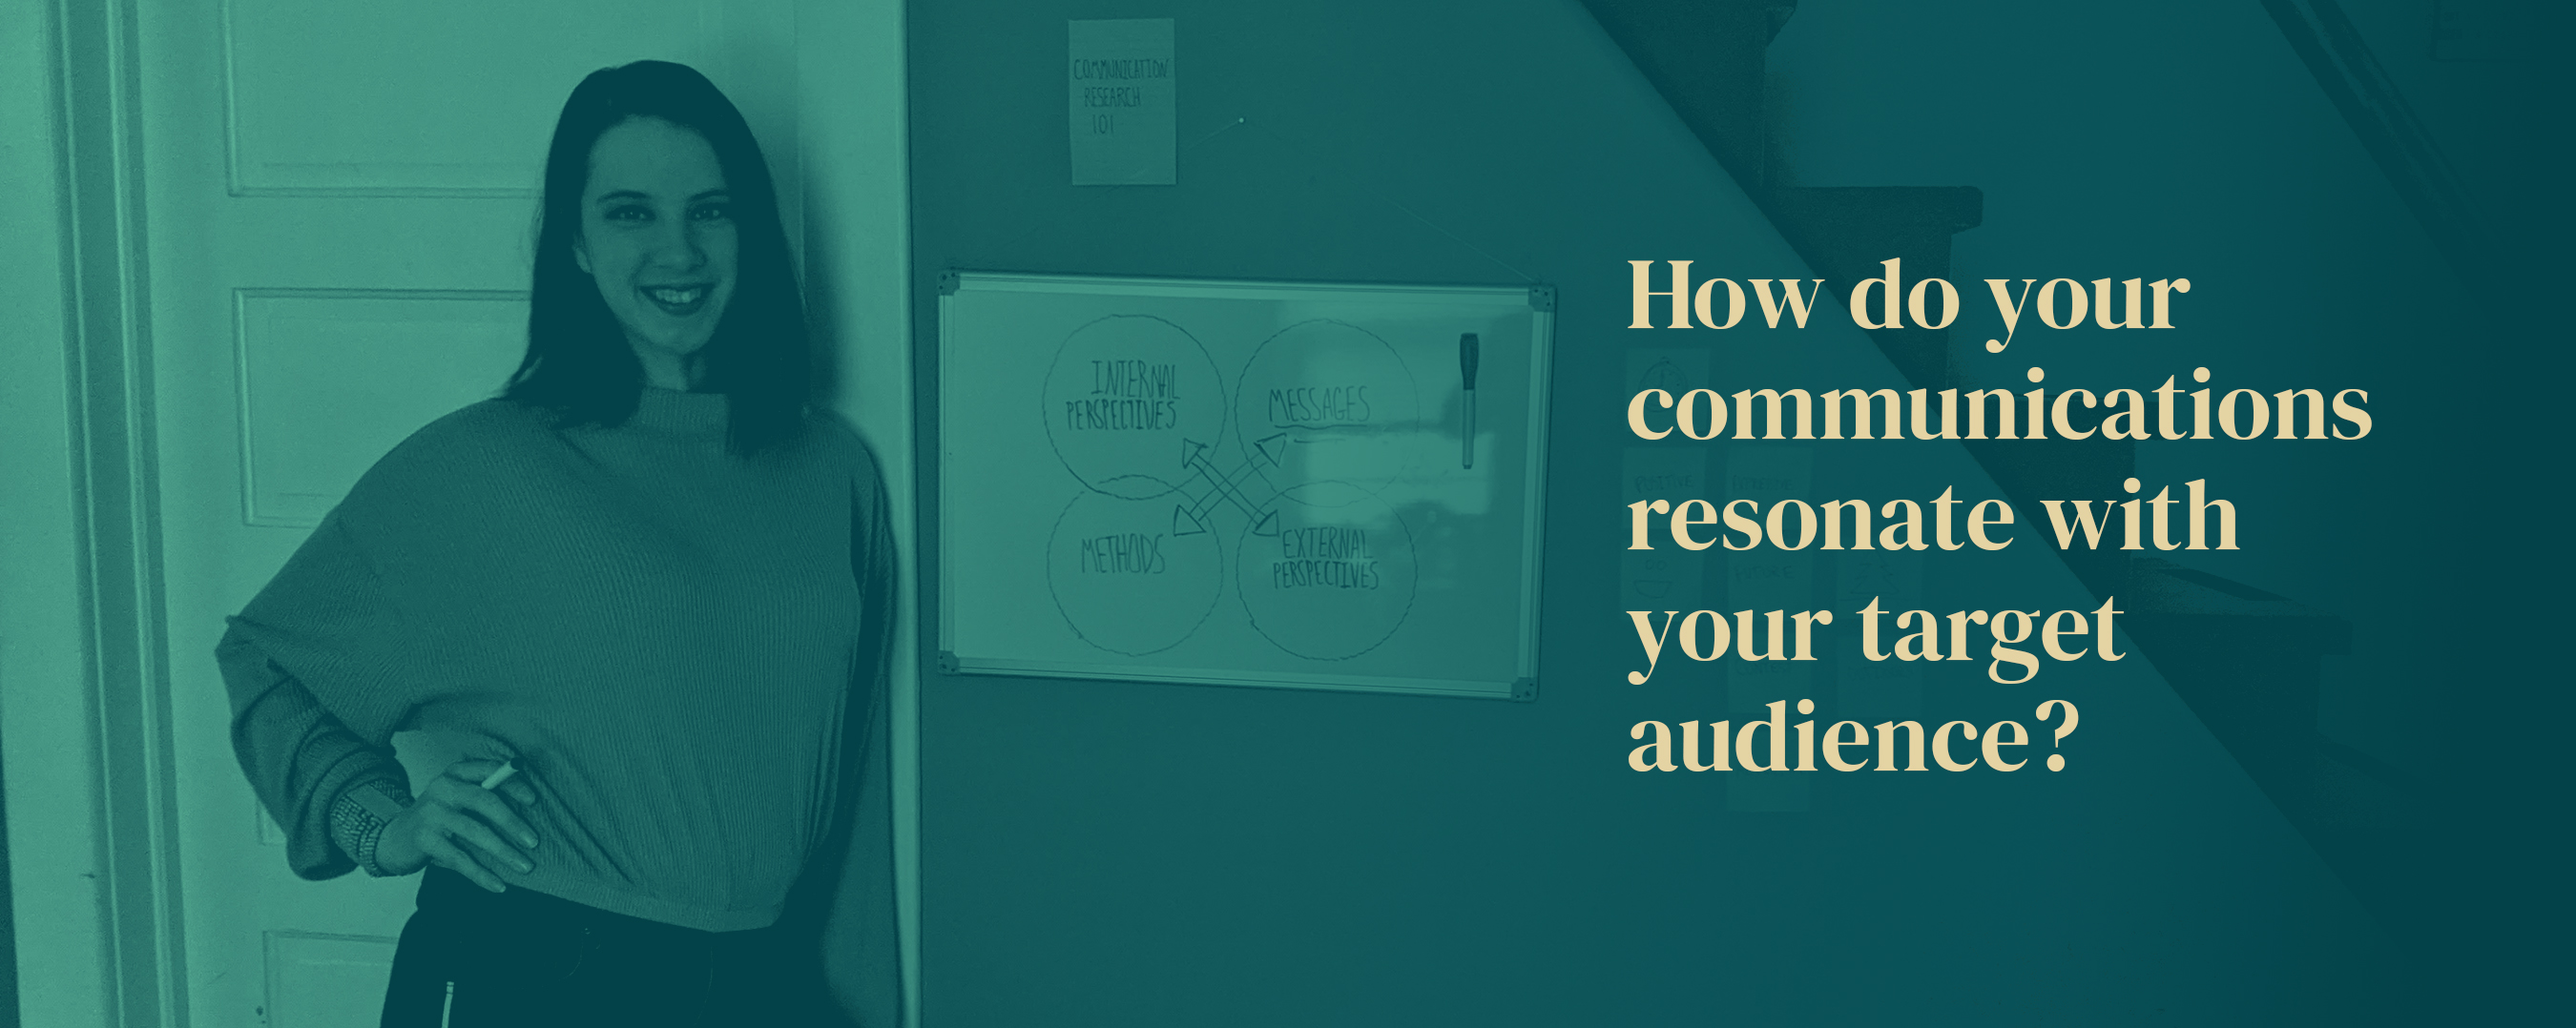
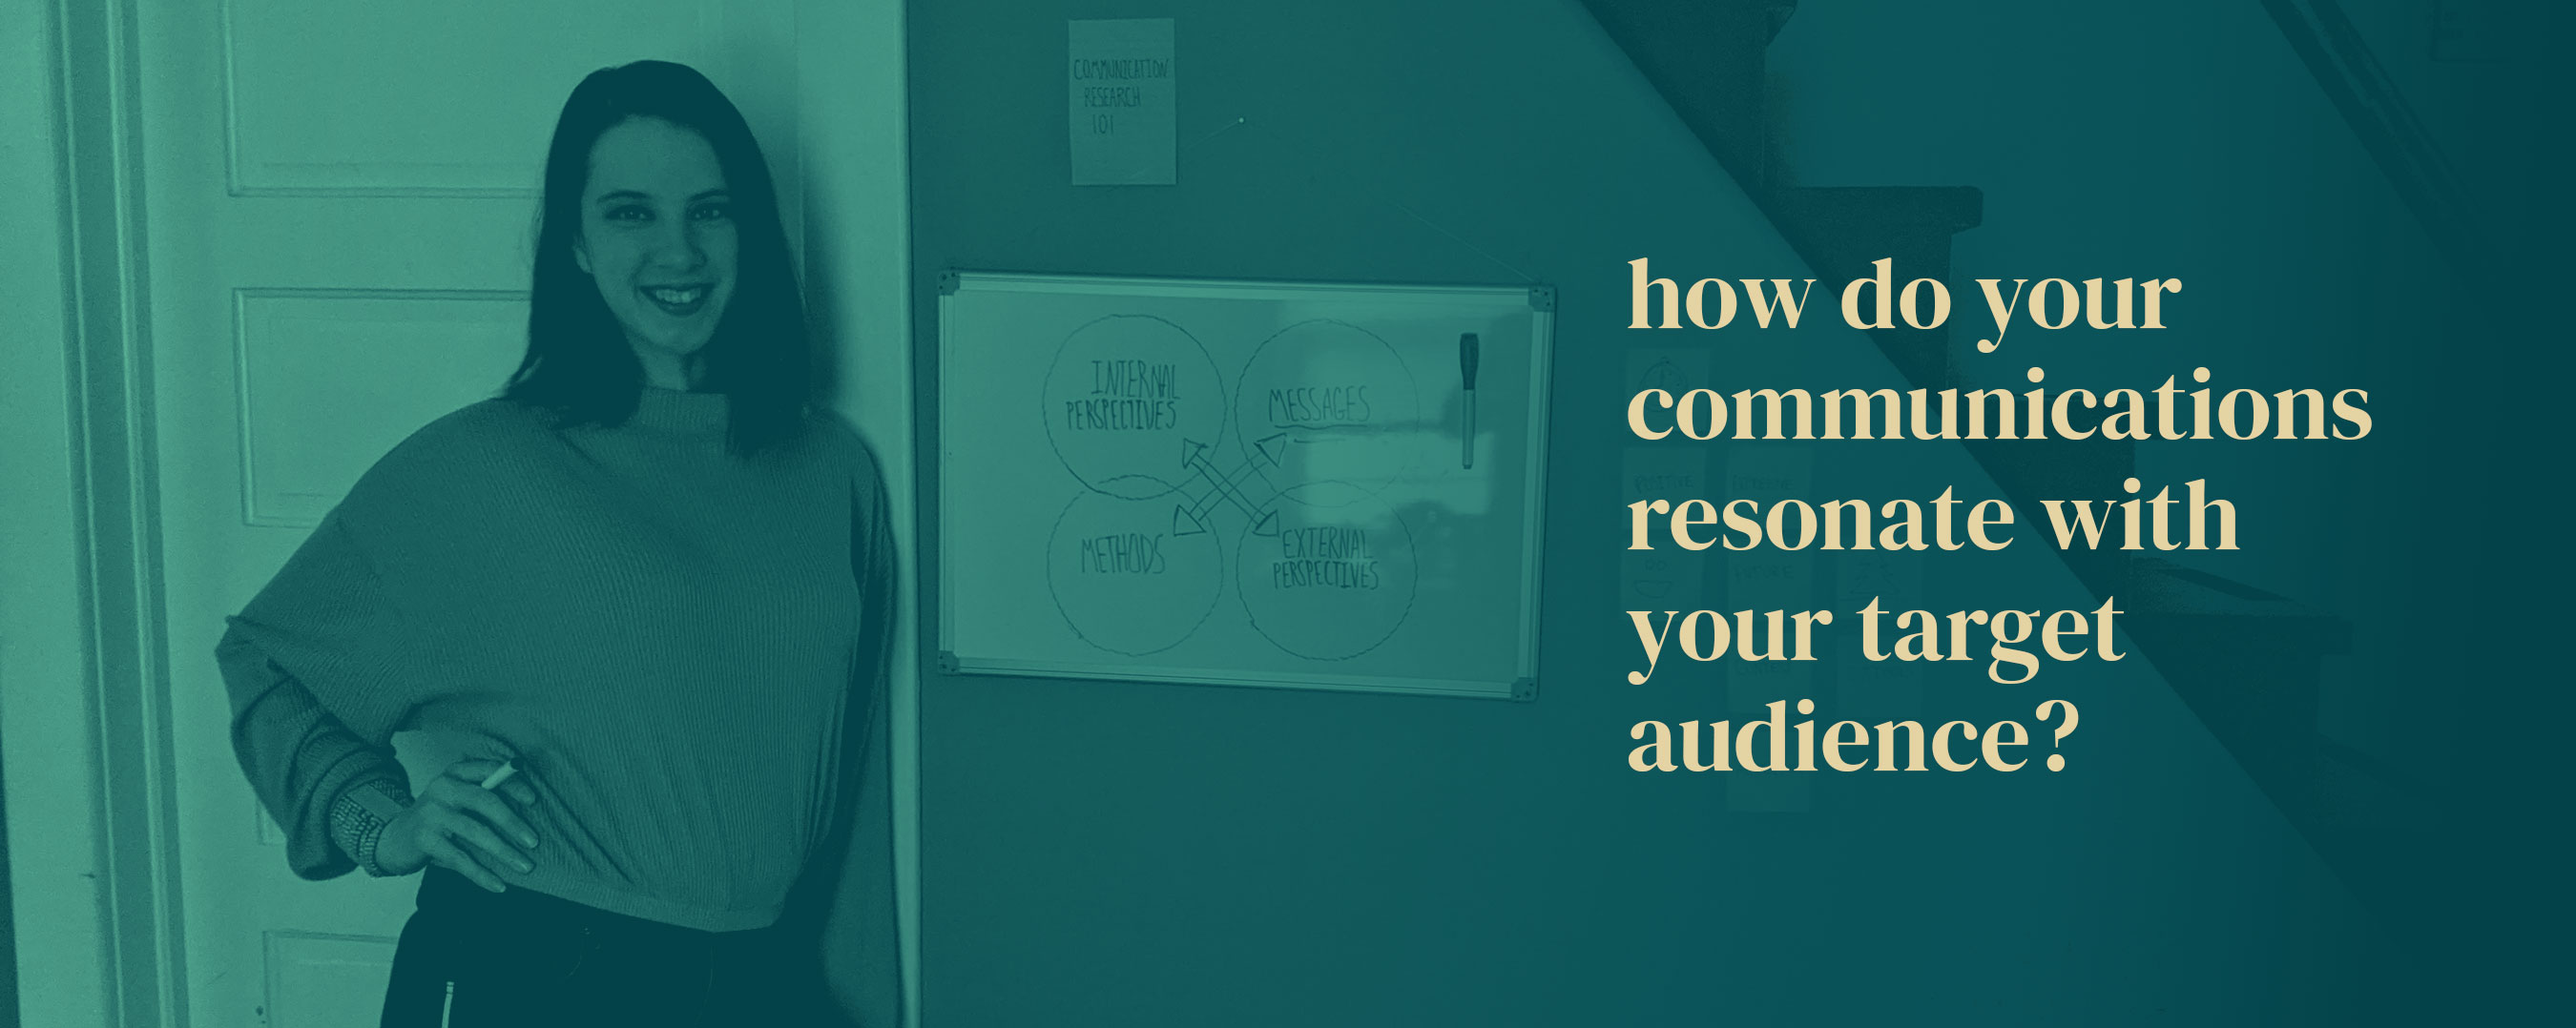
capitalization

Changed region(s): [[0.6222, 0.2449, 0.8711, 0.3367]]

diff --git a/expertise.html b/expertise.html
@@ -129,24 +129,24 @@
                     <div class="col-12 margin-60px-bottom sm-margin-30px-bottom wow fadeIn"><img src="images/expertise1600x639.jpg" alt=""/></div>
                     <!-- start service item -->
                     <div class="col-12 col-lg-4 md-margin-40px-bottom sm-margin-30px-bottom wow fadeInUp">
-                        <div class="text-medium alt-font text-medium-gray">Observe + Define</div>
-                        <span class="alt-font text-extra-dark-gray d-block margin-15px-bottom md-margin-10px-bottom" style="font-size: 20px;">Research Driven</span>
+                        <div class="text-medium alt-font text-medium-gray">observe + define</div>
+                        <span class="alt-font text-extra-dark-gray d-block margin-15px-bottom md-margin-10px-bottom" style="font-size: 20px;">research driven</span>
                         <p class="width-90 md-width-100 sm-margin-15px-bottom">As the world of branding and communication grows more diverse across platforms, the ability to conduct useful research becomes critical. Careful research ensures a concept will connect with your customers.</p>
                         <div class="separator-line-horrizontal-medium-light margin-30px-top md-no-margin-top bg-deep-pink"></div>
                     </div>
                     <!-- end service item -->
                     <!-- start service item -->
                     <div class="col-12 col-lg-4 md-margin-40px-bottom sm-margin-30px-bottom wow fadeInUp" data-wow-delay="0.2s">
-                        <div class="text-medium alt-font text-medium-gray">Game Plan</div>
-                        <span class="alt-font text-extra-dark-gray d-block margin-15px-bottom md-margin-10px-bottom" style="font-size: 20px;">Marketing Strategy</span>
+                        <div class="text-medium alt-font text-medium-gray">game plan</div>
+                        <span class="alt-font text-extra-dark-gray d-block margin-15px-bottom md-margin-10px-bottom" style="font-size: 20px;">marketing strategy</span>
                         <p class="width-90 md-width-100 sm-margin-15px-bottom">My process is constantly being perfected in order to create more meaningful value to my clients. This includes the use of communication paradigms to understand your audience and enables an agile response to constantly changing markets.</p>
                         <div class="separator-line-horrizontal-medium-light margin-30px-top md-no-margin-top bg-deep-pink"></div>
                     </div>
                     <!-- end service item -->
                     <!-- start service item -->
                     <div class="col-12 col-lg-4 wow fadeInUp" data-wow-delay="0.4s">
-                        <div class="text-medium alt-font text-medium-gray">Ideate + Create</div>
-                        <span class="alt-font text-extra-dark-gray d-block margin-15px-bottom md-margin-10px-bottom" style="font-size: 20px;">Inspiring Design</span>
+                        <div class="text-medium alt-font text-medium-gray">ideate + create</div>
+                        <span class="alt-font text-extra-dark-gray d-block margin-15px-bottom md-margin-10px-bottom" style="font-size: 20px;">inspiring design</span>
                         <p class="width-90 md-width-100 sm-margin-15px-bottom">The final design deliverables will apply the highest level of design principles and aesthetics. Expect every detail from colour, typography, graphics and layout to be beautiful and high calibre.</p>
                         <div class="separator-line-horrizontal-medium-light margin-30px-top md-no-margin-top bg-deep-pink"></div>
                     </div>
@@ -163,7 +163,7 @@
                     <!-- start service item -->
                     <div class="col-12 col-lg-4 col-md-6 text-center last-paragraph-no-margin sm-margin-30px-bottom wow fadeInUp" data-wow-delay="0.2s">                       
                         <i class="icon-magnifying-glass icon-extra-medium margin-20px-bottom" style="color: #75D3AE;"></i>
-                        <div class="text-white-2 margin-10px-bottom md-margin-5px-bottom alt-font" style="font-size: 20px;">Research & Insights</div>
+                        <div class="text-white-2 margin-10px-bottom md-margin-5px-bottom alt-font" style="font-size: 20px;">research & insights</div>
                         <p class="text-white-2 width-80 mx-auto sm-width-100">Let's understand your industry better than the competition. The research I do will help respond to the market, social issues and drive more value for your communications.</p>                      
                     </div> 
                     <!-- end service item -->
@@ -172,14 +172,14 @@
                     <!-- start service item -->
                     <div class="col-12 col-lg-4 col-md-6 text-center last-paragraph-no-margin margin-70px-bottom md-margin-40px-bottom sm-margin-30px-bottom wow fadeInUp" data-wow-delay="0.2s">                       
                         <i class="icon-tools icon-extra-medium margin-20px-bottom" style="color: #75D3AE;"></i>
-                        <div class="text-white-2 margin-10px-bottom md-margin-5px-bottom alt-font" style="font-size: 20px;">Brand Identity</div>
+                        <div class="text-white-2 margin-10px-bottom md-margin-5px-bottom alt-font" style="font-size: 20px;">brand identity</div>
                         <p class="text-white-2 width-80 mx-auto sm-width-100">A personality that distinguishes you from others. Your brand identity tells the story or who you are and we'll make sure yours says you are the best.</p>                      
                     </div>
                     <!-- end service item -->
                     <!-- start service item -->
                     <div class="col-12 col-lg-4 col-md-6 text-center last-paragraph-no-margin margin-70px-bottom md-margin-40px-bottom sm-margin-30px-bottom wow fadeInUp" data-wow-delay="0.4s">                       
                         <i class="icon-hotairballoon icon-extra-medium margin-20px-bottom" style="color: #75D3AE;"></i>
-                        <div class="text-white-2 margin-10px-bottom md-margin-5px-bottom alt-font" style="font-size: 20px;">Design</div>
+                        <div class="text-white-2 margin-10px-bottom md-margin-5px-bottom alt-font" style="font-size: 20px;">design</div>
                         <p class="text-white-2 width-80 mx-auto sm-width-100">I am fluent in everything from print to digital. Trust that I know how to get you what you need and it will be brave and stunning.</p>                      
                     </div>                                        
                     <!-- end service item -->
@@ -187,7 +187,7 @@
                     <!-- start service item -->
                     <div class="col-12 col-lg-4 col-md-6 text-center last-paragraph-no-margin margin-70px-bottom md-margin-40px-bottom sm-margin-30px-bottom wow fadeInUp">                       
                         <i class="icon-desktop icon-extra-medium margin-20px-bottom" style="color: #75D3AE;"></i>
-                        <div class="text-white-2 margin-10px-bottom md-margin-5px-bottom alt-font" style="font-size: 20px;">Digital Experience</div>
+                        <div class="text-white-2 margin-10px-bottom md-margin-5px-bottom alt-font" style="font-size: 20px;">digital experience</div>
                         <p class="text-white-2 width-80 mx-auto sm-width-100">Let's create a website that is more than just lines of code in the right colour palette. It will be a digital experience that helps your story unfold.</p>                      
                     </div>
                     <!-- end service item -->
@@ -195,7 +195,7 @@
                     <!-- start service item -->
                     <div class="col-12 col-lg-4 col-md-6 text-center last-paragraph-no-margin md-margin-40px-bottom sm-margin-30px-bottom wow fadeInUp">                       
                         <i class="icon-target icon-extra-medium margin-20px-bottom" style="color: #75D3AE;"></i>
-                        <div class="text-white-2 margin-10px-bottom md-margin-5px-bottom alt-font" style="font-size: 20px;">Messaging + Content</div>
+                        <div class="text-white-2 margin-10px-bottom md-margin-5px-bottom alt-font" style="font-size: 20px;">messaging + content</div>
                         <p class="text-white-2 width-80 mx-auto sm-width-100">In order to tell customers what you do, it's important that your messaging is on point. I'll help you pitch the main points to enhance relationships.</p>                      
                     </div>
                     <!-- end service item -->
@@ -203,7 +203,7 @@
                     <!-- start service item -->
                     <div class="col-12 col-lg-4 col-md-6 text-center last-paragraph-no-margin wow fadeInUp" data-wow-delay="0.4s">                       
                         <i class="icon-laptop icon-extra-medium margin-20px-bottom" style="color: #75D3AE;"></i>
-                        <div class="text-white-2 margin-10px-bottom md-margin-5px-bottom alt-font" style="font-size: 20px;">Social Marketing</div>
+                        <div class="text-white-2 margin-10px-bottom md-margin-5px-bottom alt-font" style="font-size: 20px;">social marketing</div>
                         <p class="text-white-2 width-85 mx-auto sm-width-100">On social media, engaging visuals are crucial to capturing attention. Let's work with your strategic goals and apply them to the right communication channels.</p>                      
                     </div> 
                     <!-- end service item -->
@@ -219,7 +219,7 @@
                         <img src="images/cara1480x1197.jpg" class="w-100" alt="" />
                     </div>
                     <div class="col-12 col-xl-5 col-lg-6 offset-xl-1 wow fadeInRight">
-                        <h5 class="alt-font text-extra-dark-gray margin-30px-bottom" style="font-size: 39px;">How to put your best brand foot forward</h5>
+                        <h5 class="alt-font text-extra-dark-gray margin-30px-bottom" style="font-size: 39px;">how to put your best brand foot forward</h5>
                         <ul class="p-0 list-style-4">
                             <li>Tell your authentic brand story</li>
                             <li>Keep it simple and easy for your customers to relate to</li>

diff --git a/about-me.html b/about-me.html
@@ -127,7 +127,7 @@
                     <div class="col-12 col-md-6 wow fadeIn">
                         <div class="position-relative icon-with-paragraph">
                             
-                            <h5 class="font-weight-400 text-extra-dark-gray width-90 padding-nineteen-left lg-padding-twenty-left lg-width-100 md-no-padding-left sm-margin-five-bottom alt-font">Engaing, thoughtful and effective design.</h5>
+                            <h5 class="font-weight-400 text-extra-dark-gray width-90 padding-nineteen-left lg-padding-twenty-left lg-width-100 md-no-padding-left sm-margin-five-bottom alt-font">engaing, thoughtful and effective design.</h5>
                         </div>
                     </div>
                     <div class="col-12 col-xl-6 col-lg-5 offset-lg-1 offset-xl-0 col-md-6 wow fadeIn last-paragraph-no-margin" data-wow-delay="0.2s">
@@ -217,7 +217,7 @@
                 <div class="row justify-content-center">
                     <div class="col-12 col-lg-8 col-md-10 text-center">
                         <i class="fas fa-quote-left icon-small text-deep-pink d-block margin-25px-bottom"></i>
-                        <h5 class="alt-font text-extra-dark-gray font-weight-600 margin-5px-bottom">Have no fear of perfection&mdash;</h5>
+                        <h5 class="alt-font text-extra-dark-gray font-weight-600 margin-5px-bottom">have no fear of perfection&mdash;</h5>
                         <h5 class="alt-font text-extra-dark-gray font-weight-300">you'll never reach it</h5>
                         <span class="text-uppercase text-extra-small alt-font letter-spacing-3 text-medium-gray">Salvador Dali</span>
                     </div>
